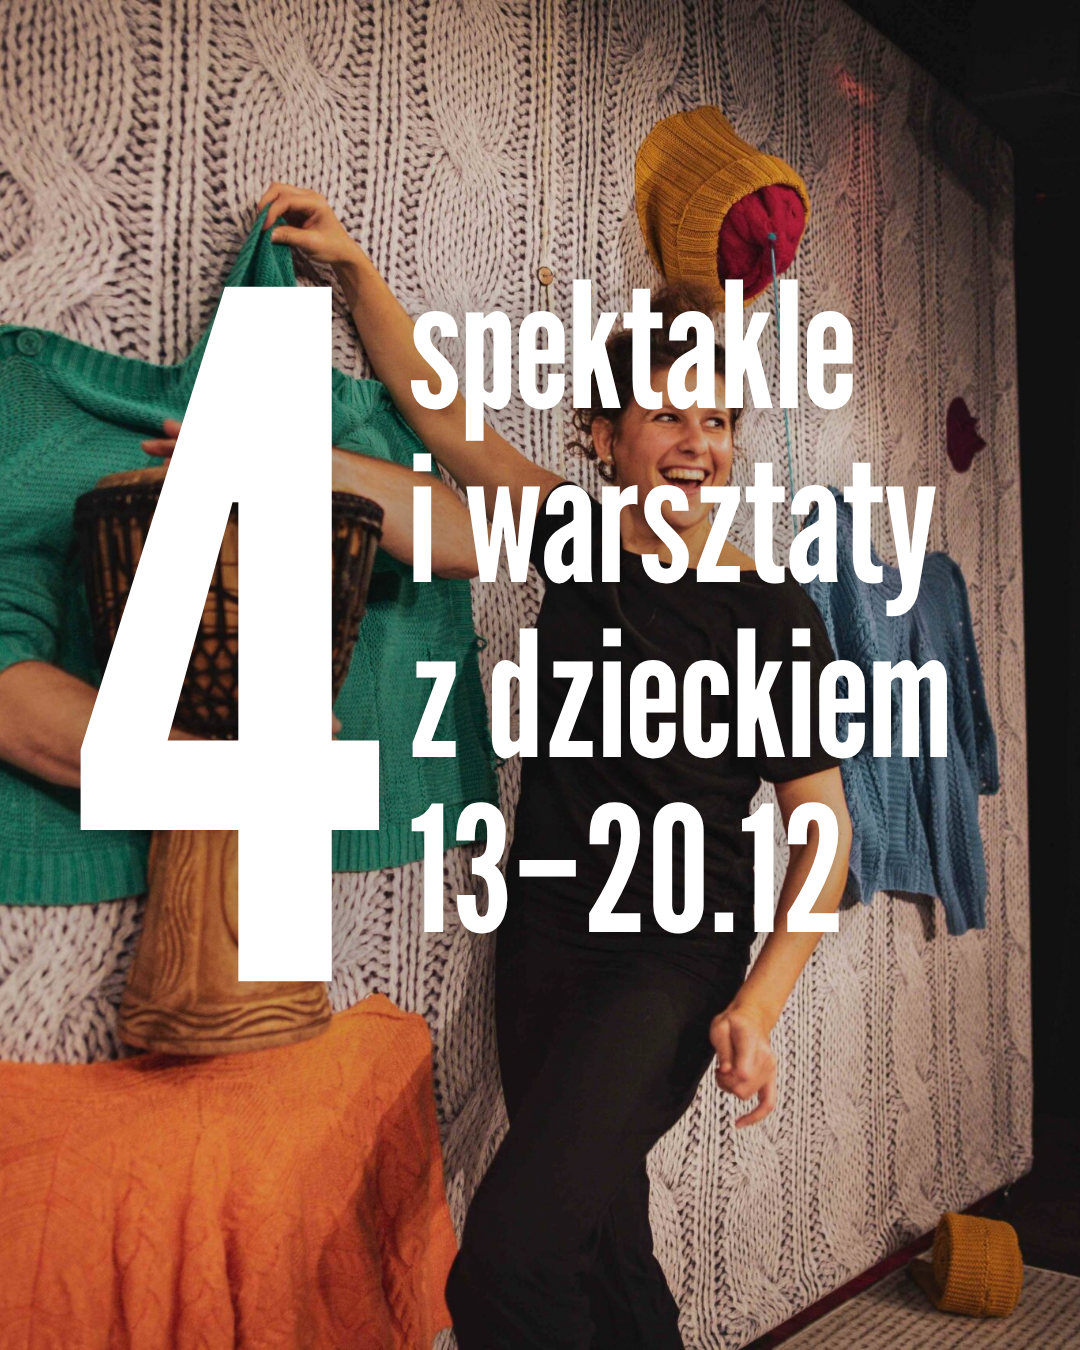
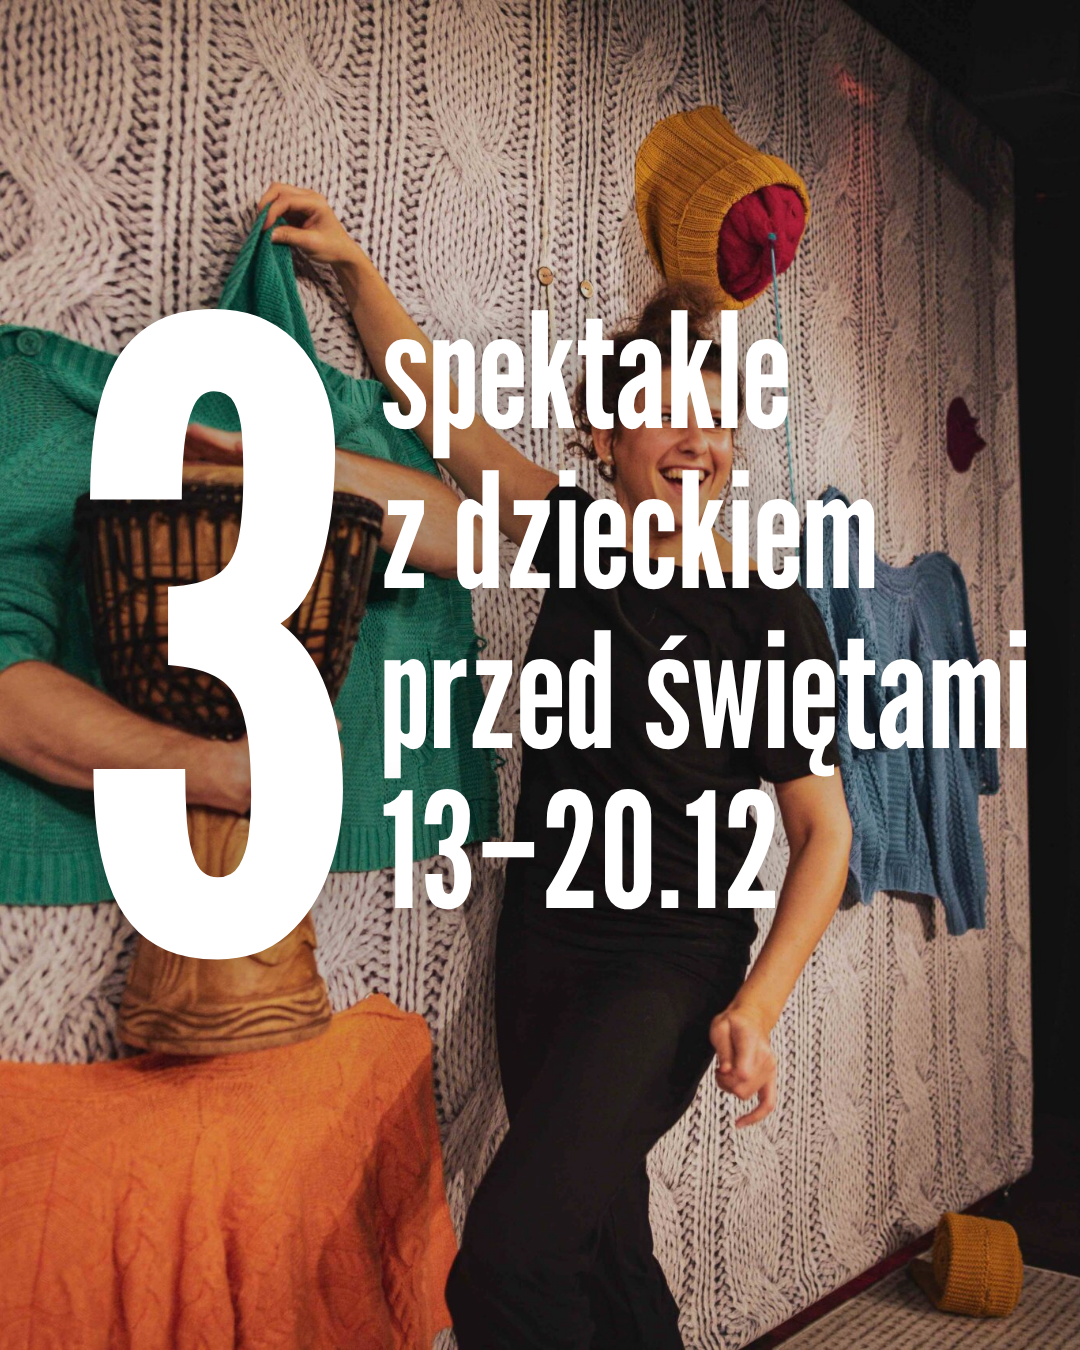
Plan kroczący 28.11: warsztaty w Alternatywach wyprzedane, zdjęte z posta 8.12 (3 spektakle)
Claude-Session: https://claude.ai/code/session_01XLM2maJReU7e4WTN82voGb

diff --git a/research/2026-11-28.md b/research/2026-11-28.md
@@ -1,0 +1,45 @@
+# Research dzienny: sob. 28.11.2026 (kontrola kolejki 30.11–8.12, kandydaci na czw. 10.12 „Weekend u mnie” 11–13.12)
+
+Sprawdzone 28.11 między 7:50 a 8:20 (`curl`, API IG: miasto_warszawa, teatrguliwer, teatrbaj, kinomuranow, dorozkarnia, dom.sztuki.ursynow, muzeumazji; WebSearch jako trop). Bez rezerwacji i bez wpisywania danych. Uzupełnia `research/2026-11-27.md`, powtarza tylko zmiany.
+
+## 1. Kontrola kolejki
+
+28 z 28 adresów z `source` postów 30.11, 1.12, 3.12, 7.12 i 8.12: 200.
+- **8.12 „Z dzieckiem”: UCK Alternatywy „Świąteczne ozdoby” nd. 13.12 11:00 ma w repertuarze „wyprzedane”** (https://alternatywy.art/repertuar/). Rezerwowe „Wieniec na Boże Narodzenie” 13.12 13:00 też „wyprzedane”. Post wychodzi 8.12 18:00 (ponad 12 h), więc do podmiany w trybie 2. Pozostałe pozycje 8.12 bez zmian: CPK 13.12 wejściówki od 8.12 16:00; „Wełna” 20.12 10:00 **48**, 12:00 **46**, 14:00 **50**, 16:00 **44** dostępnych; BCK „O, choinka!” 20.12 11:30 i 13:00.
+- 1.12: Lalka „Zupełnie inne Święta” 12.12 17:00 **87** wolnych (wczoraj 95), 13.12 12:00 **61**. Maskarada 5.12 12:30 i 19.12 12:00 w repertuarze (napis „Sprzedaż online zakończona” to ukryty szablon). Murowanka 12.12 i DK Świt 13.12 13:00 bez zmian.
+- 30.11, 3.12, 7.12: bez odwołań, przeniesień i wyprzedań (Ferio 12.12 10–14 wstęp wolny; Pardon targi 12.12; mewa 13.12).
+- **Iluminacja 4.12: godziny zapalenia nadal brak** (19115 bez zmian, @miasto_warszawa do 27.11 tylko jarmark).
+- Koncerty na Krakowskim Przedmieściu 12–13.12: nadal bez godzin.
+
+## 2. Czw. 10.12 „Weekend u mnie” (11–13.12), kolejność dorośli/rodziny
+
+Poza postami 1.12, 3.12, 7.12, 8.12 (tam już: Pardon targi, Ferio, mewa SDK, Murowanka, Lalka, Świt, Maskarada, CPK, Alternatywy, Norblin, Piernikowa Kraina, iluminacja).
+
+1. **Legia Warszawa – Pogoń Szczecin** (data i godzina potwierdzone u klubu): **pt. 11.12.2026, 20:30**, 17. kolejka, stadion przy Łazienkowskiej 3 (Śródmieście). Sprzedaż otwarta od nd. 29.11 po meczu z Wieczystą; ceny i sektor rodzinny do sprawdzenia od 29.11. Źródła: https://legia.com/ (terminarz), https://legia.com/articles/ruszyl-odbior-biletow-w-ramach-subskrypcji-na-mecz-z-pogonia-szczecin-wszyscy-na-l3 . Przekomarzanie: paprykarz szczeciński. Obraz: do wyboru z @legiawarszawa bliżej meczu (zapowiedź meczowa); grafika z artykułu 1920×1080 (zdjęcie z meczu z Wisłą, nie oglądane).
+   - title: „Legia z Pogonią przy Łazienkowskiej” · sub: „pt. 11.12, 20:30 · stadion Legii · bilety od 29.11”
+2. **„jaśniej! gwiazda, która nie chciała być pierwsza”, Teatr Lalek Guliwer** (potwierdzone): sob. 12.12.2026 17:00, nd. 13.12 11:00 i 13:00 (13:00 z audiodeskrypcją), Scena Duża, ul. Różana 16 (Mokotów); od 5 lat, 75 min z przerwą; Duża Scena 45–55 zł (strefy), rodzinny 35 zł z KDR/Kartą Guliwera 3+; „Kup bilet” przy terminach. Spektakl świąteczny wraca po roku przerwy. @teatrguliwer (link na stronie). Obraz: `https://teatrguliwer.pl/wp-content/uploads/2025/09/JASNIEJ-male-fot-marek-zimakiewicz-101.jpg` (1920×1280, obejrzany: aktorzy w kosmicznych kostiumach z gitarami; fot. Marek Zimakiewicz). Źródła: https://teatrguliwer.pl/repertuar/?miesiac=1, https://teatrguliwer.pl/spektakl/jasniej-gwiazda-ktora-nie-chciala-byc-pierwsza/, https://teatrguliwer.pl/bilety/
+   - title: „świąteczna gwiazda w Teatrze Guliwer” · sub: „sob. 17:00, nd. 11:00 i 13:00 · Różana 16 · 45–55 zł”
+3. **Raphael Rogiński Plays John Coltrane & Langston Hughes, gość Natalia Przybysz, Pardon, To Tu** (potwierdzone): nd. 13.12.2026, wejście 19:00, koncert 20:30, al. Armii Ludowej 14 (Śródmieście); 59 zł przedsprzedaż / 69 zł w dniu koncertu; jeden z ostatnich koncertów tego programu, 11 lat po premierze w tym miejscu; miejsc siedzących mało. @pardontotu. Obraz: `https://pardontotu.pl/wp-content/uploads/2026/09/01a04502-227d-749d-bc80-b1c18b411437.png` (1430×860, obejrzany: portret Rogińskiego). Uwaga: Pardon jest już w poście 7.12 (targi 12.12, inne wydarzenie). Źródło: https://pardontotu.pl/wydarzenia/raphael-roginski-plays-john-coltrane-langston-hughes-special-guest-natalia-przybysz/
+   - title: „Rogiński gra Coltrane’a z Przybysz” · sub: „nd. 13.12, 20:30 · Pardon, To Tu · 59–69 zł”
+4. **„Opowieść wigilijna”, Teatr Eden, cykl Niedzielne Bajeczki, Katolickie Centrum Kultury Dobre Miejsce** (potwierdzone): nd. 13.12.2026, 12:30, ul. Dewajtis 3, wejście B, aula (Bielany); **bezpłatne wejściówki online od sob. 5.12, 8:00**; wiek nie podany. Konta IG na stronie brak (tylko oznaczenie w opisie bez „@” albo pominąć). Obraz: `https://dobremiejsce.org/wp-content/uploads/2026/10/opowiesc-wigilijna-6.jpg` (1252×800, obejrzany: dwaj aktorzy, Scrooge w szlafroku i duch z misiem). Ryzyko: wejściówki mogą zniknąć przed 10.12; sprawdzić 9.12. Źródło: https://dobremiejsce.org/niedzielne-bajeczki-teatr-eden-2/
+   - title: „Opowieść wigilijna w Dobrym Miejscu” · sub: „nd. 13.12, 12:30 · Dewajtis 3, Bielany · wejściówki”
+5. **„Wydobyte z czasu”, gobeliny Marii Kowalczyk i malarstwo Zuzanny Kowalczyk, Dom Kultury Śródmieście** (częściowo: brak godziny otwarcia i wernisażu): od sob. 12.12.2026 do 20.01.2027, Galeria na Smolnej, ul. Smolna 9 (Śródmieście), **wstęp wolny**; architektura Petry i gotyku w dwóch językach, dwa pokolenia. @dom_kultury_srodmiescie (link na stronie). **Obrazu brak** (strona bez grafiki). Źródło: https://dks.art.pl/wydobyte-z-czasu-wystawa-gobelinow-marii-kowalczyk-i-malarstwa-zuzanny-kowalczyk
+   - title: „gobeliny i obrazy dwóch pokoleń” · sub: „od sob. 12.12 · Galeria na Smolnej · wstęp wolny”
+6. **Świąteczne koncerty i teatry uliczne, Krakowskie Przedmieście** (częściowo, miasto): sob.–nd. 12–13.12.2026, scena przy ul. Tokarzewskiego-Karaszewicza, balkon Hotelu Bristol (Śródmieście), bezpłatne; m.in. Kapela ze Wsi Warszawa, Gospel Joy, Brass Federacja, Maria Pomianowska, fire show. Godzin i podziału na dni brak; tylko do opisu, dopóki 19115 ich nie poda. @miasto_warszawa. Źródło: https://warszawa19115.pl/-/%C5%9Awi%C4%99ta-w-warszawie-2026
+   - title: „gospel i brass na Krakowskim” · sub: „sob.–nd. 12–13.12 · Krakowskie Przedmieście · za darmo”
+
+Rezerwa i odrzucone: Teatr Baj „Dziadek do orzechów” 12.12 17:00 i 13.12 11:00 (Praga-Północ, od 7 lat; temat już w 1.12 z DK Świt); Guliwer „Choinka” (od 3 lat, Scena Liliput, 12.12 11:00 i 13:00, 13.12 16:00; tytuł bliski „O, choinka!” z 8.12); Teatr Ochoty „Crip to Heaven” 11–13.12 (wyprzedane). Brak grudnia na 11–13.12: CK Wilanów (wydarzenia do 3.12), Dorożkarnia, DOK Ursynów, Muzeum Warszawy (kalendarz pusty w curl). Niedostępne dziś: bok.art.pl (kiermasz Bielański OK 13.12 nadal niepotwierdzony), sdk.waw.pl/wydarzenia, okochota.pl, zoliborz.org.pl, dkkadr.pl, kinomuranow.pl, dkzacisze.pl, ckwlochy.pl, zck.waw.pl, muzeumdrukarstwa.pl.
+
+Mali organizatorzy i domy kultury: 4 (Guliwer, Pardon, Dobre Miejsce, DK Śródmieście); duże instytucje: 0; miasto: 1 (Krakowskie Przedmieście); sport: 1 (Legia).
+Społeczności/hashtagi: nie sprawdzano dziś.
+
+## Zapisy z wyprzedzeniem
+
+- Dobre Miejsce „Opowieść wigilijna” 13.12: wejściówki online od 5.12, 8:00.
+- CPK „Lodowa Kraina” 13.12: wejściówki z biletomatu od 8.12, 16:00 (bez zmian).
+- Legia – Pogoń 11.12: sprzedaż otwarta od 29.11.
+
+## Wnioski
+
+- Do trybu 2: w poście 8.12 podmienić Alternatywy (wyprzedane) na inne rodzinne wydarzenie 12–13.12 albo 19–20.12, np. Guliwer „Choinka” (jeśli nie idzie 10.12) lub Teatr Baj.
+- 10.12: pięć potwierdzonych lub prawie potwierdzonych pozycji, w tym trzy z małych miejsc; brakuje jeszcze jednej rodzinnej spoza Śródmieścia i Mokotowa oraz obrazów dla Legii i DKŚ. Grudniowe kalendarze domów kultury (Bielany, Ochota, Żoliborz) sprawdzić ponownie, gdy strony zadziałają.
